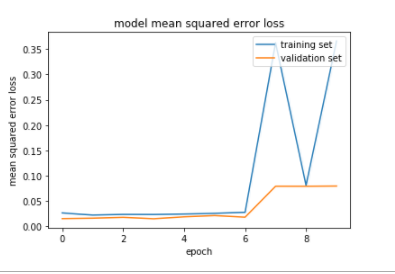
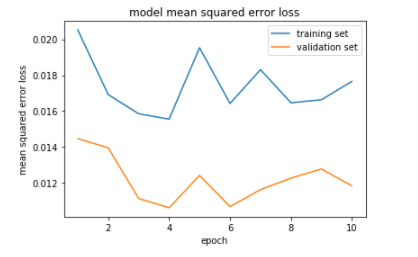
udacity

Changed region(s): [[0.0, 0.0311, 1.0, 0.9961], [0.243, 0.1868, 0.5165, 0.4669], [0.2127, 0.2179, 0.243, 0.3113]]

diff --git a/writeup_report.md b/writeup_report.md
@@ -87,40 +87,7 @@ I decided to drop the last two layers
 The model includes ELU layers to introduce nonlinearity, and the data is
 normalized in the model using a Keras lambda layer (lambda x: x/127.5 - 1 ).
 
-\________________________________________________________________\_  
-Layer (type)                 Output Shape              Param \#  
-=================================================================  
-cropping (Cropping2D)        (None, 73, 128, 3)        0  
-\________________________________________________________________\_  
-lambda_1 (Lambda)            (None, 73, 128, 3)        0  
-\________________________________________________________________\_  
-Conv1 (Conv2D)               (None, 35, 62, 24)        1824  
-\________________________________________________________________\_  
-Conv2 (Conv2D)               (None, 16, 29, 36)        21636  
-\________________________________________________________________\_  
-Conv3 (Conv2D)               (None, 6, 13, 48)         43248  
-\________________________________________________________________\_  
-Conv4 (Conv2D)               (None, 4, 11, 64)         27712  
-\________________________________________________________________\_  
-Conv5 (Conv2D)               (None, 2, 9, 64)          36928  
-\________________________________________________________________\_  
-dropout_1 (Dropout)          (None, 2, 9, 64)          0  
-\________________________________________________________________\_  
-flatten_1 (Flatten)          (None, 1152)              0  
-\________________________________________________________________\_  
-dense_1 (Dense)              (None, 100)               115300  
-\________________________________________________________________\_  
-dropout_2 (Dropout)          (None, 100)               0  
-\________________________________________________________________\_  
-dense_2 (Dense)              (None, 50)                5050  
-\________________________________________________________________\_  
-dense_3 (Dense)              (None, 10)                510  
-\________________________________________________________________\_  
-dense_4 (Dense)              (None, 1)                 11  
-=================================================================  
-Total params: 252,219  
-Trainable params: 252,219  
-Non-trainable params: 0
+![](writeup_images/model%20definition.PNG)
 
  
 
@@ -276,9 +243,9 @@ Total samples including recurrent 91946
 And **after preprocessing and augmenting:**
 
 ~~~~~~~~~~~~~~~~~~~~~~~~~~~~~~~~~~~~~~~~~~~~~~~~~~~~~~~~~~~~~~~~~~~~~~~~~~~~~~~~
-Total training samples 128x128 after augmentation and preprocessing : 381744
+Total training samples 128x128 after augmentation and preprocessing : 441336 
 
-Total validation samples 128x128 after augmentation and preprocessing : 95442
+Total validation samples 128x128 after augmentation and preprocessing : 110340 
 ... completed
 ~~~~~~~~~~~~~~~~~~~~~~~~~~~~~~~~~~~~~~~~~~~~~~~~~~~~~~~~~~~~~~~~~~~~~~~~~~~~~~~~
 
@@ -297,48 +264,59 @@ manually
 
  
 
-Here you can see the training statistics:
+Here you can see the training result:
 
-~~~~~~~~~~~~~~~~~~~~~~~~~~~~~~~~~~~~~~~~~~~~~~~~~~~~~~~~~~~~~~~~~~~~~~~~~~~~~~~~
-Epoch 1/10
-11930/11929 [==============================] - 165s - loss: 0.0262 - val_loss: 0.0150
-Epoch 2/10
-11930/11929 [==============================] - 148s - loss: 0.0220 - val_loss: 0.0158
-Epoch 3/10
-11930/11929 [==============================] - 151s - loss: 0.0233 - val_loss: 0.0176
-Epoch 4/10
-11930/11929 [==============================] - 145s - loss: 0.0232 - val_loss: 0.0147
-Epoch 5/10
-11930/11929 [==============================] - 145s - loss: 0.0241 - val_loss: 0.0186
-Epoch 6/10
-11930/11929 [==============================] - 145s - loss: 0.0254 - val_loss: 0.0211
-Epoch 7/10
-11930/11929 [==============================] - 145s - loss: 0.0275 - val_loss: 0.0178
-Epoch 8/10
-11930/11929 [==============================] - 144s - loss: 0.3627 - val_loss: 0.0790
-Epoch 9/10
-11930/11929 [==============================] - 144s - loss: 0.0808 - val_loss: 0.0789
-Epoch 10/10
-11930/11929 [==============================] - 144s - loss: 0.3662 - val_loss: 0.0794
+Epoch 1/10  
+13792/13791 [==============================] - 341s - loss: 0.0205 - val_loss:
+0.0145  
+Epoch 2/10  
+13792/13791 [==============================] - 323s - loss: 0.0169 - val_loss:
+0.0140  
+Epoch 3/10  
+13792/13791 [==============================] - 331s - loss: 0.0159 - val_loss:
+0.0111  
+Epoch 4/10  
+13792/13791 [==============================] - 325s - loss: 0.0156 - val_loss:
+0.0106  
+Epoch 5/10  
+13792/13791 [==============================] - 341s - loss: 0.0195 - val_loss:
+0.0124  
+Epoch 6/10  
+13792/13791 [==============================] - 360s - loss: 0.0164 - val_loss:
+0.0107  
+Epoch 7/10  
+13792/13791 [==============================] - 344s - loss: 0.0183 - val_loss:
+0.0116  
+Epoch 8/10  
+13792/13791 [==============================] - 311s - loss: 0.0165 - val_loss:
+0.0123  
+Epoch 9/10  
+13792/13791 [==============================] - 362s - loss: 0.0166 - val_loss:
+0.0128  
+Epoch 10/10  
+13792/13791 [==============================] - 343s - loss: 0.0177 - val_loss:
+0.0118
 
-Total number of train samples: 381744 ( shape 128x128)
+Total number of train samples: 441336 ( shape 128x128)
 
-Batch Size                   : 32
+Batch Size : 32
 
-Duration                     : 0:24:41.647470
+Duration : 0:56:31.540967
 
- .. model saved to model.h5
-~~~~~~~~~~~~~~~~~~~~~~~~~~~~~~~~~~~~~~~~~~~~~~~~~~~~~~~~~~~~~~~~~~~~~~~~~~~~~~~~
+.. model saved to model.h5
 
- 
-
-**The image below shows, that we need less than 10 epochs:**
+**The image below shows, that we need less than 10 epochs, the best fit is at
+the epoch 4:**
 
  
 
 ![](writeup_images/training%20stats.PNG)
 
-#### .
+ 
+
+*I will repeat the training with a limit of 4 epochs*
+
+ 
 
  
 
@@ -456,7 +434,7 @@ python video.py run1
 
 And the output:
 
- 
+**xxxxxxxxxxxxxxxxxxxxxxxxxxxxxxxxxxxxxxxxxxxxxxxxxxxxxxxxxxxxxxxxxxxx**
 
  
 
@@ -613,7 +591,7 @@ PART3](https://medium.com/@cristianzantedeschi/deep-learning-training-with-huge-
 #### 5. What about shuffling the data ?
 
 Its important to note, using this solution it is difficult to *shuffle all the
-data *at each epoch change.
+data* at each epoch change.
 
  
 
